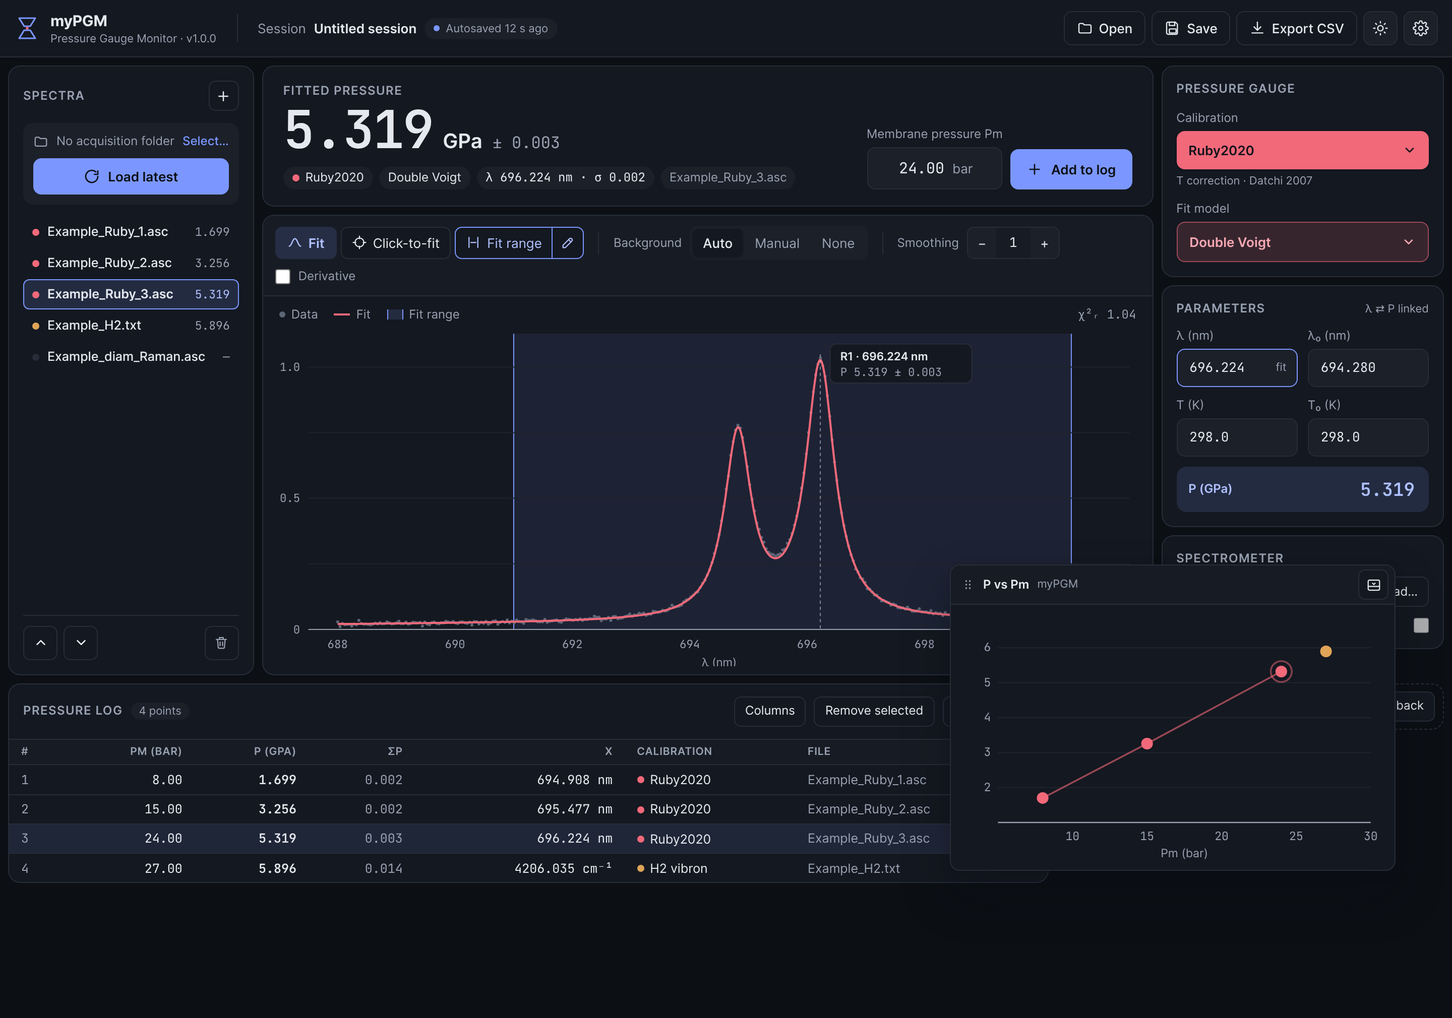
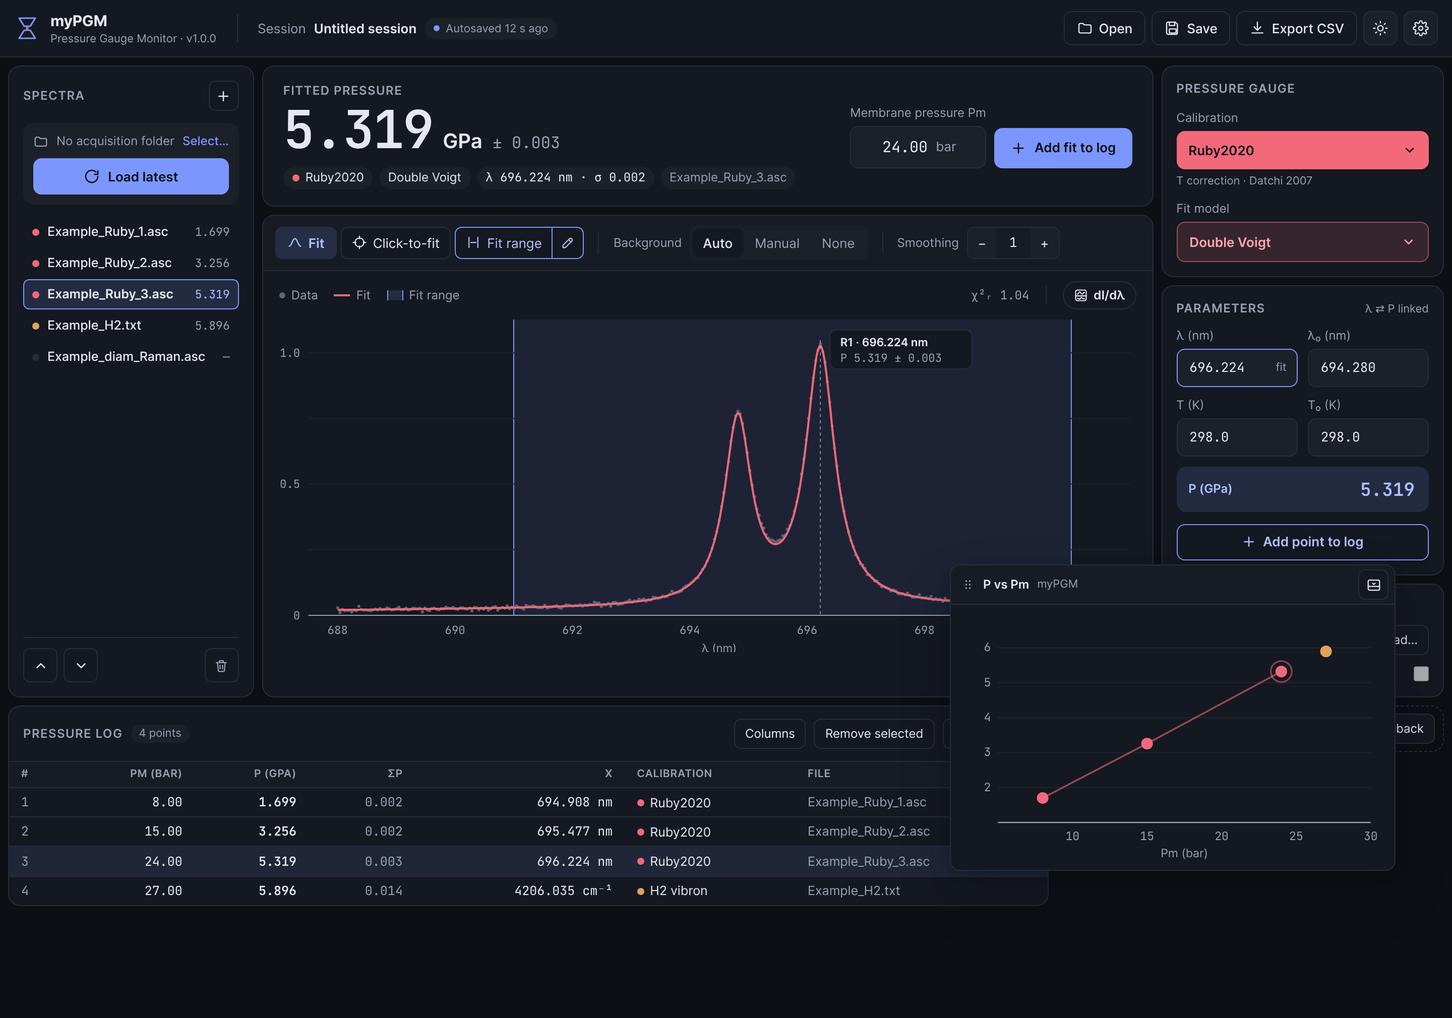
Design spec: centered Pm, manual point with Pm prompt, dI/dλ toggle
- Center the Pm field and 'Add fit to log' button in the fitted pressure card.
- Restore the manual point: 'Add point to log' in the Parameters card opens
  a Pm prompt (no extra Pm field in the inspector).
- Move the derivative toggle to the plot legend row as a dI/dλ pill so the
  fit toolbar fits on one line; derivative pane shown under the spectrum.
- New captures: add point dialog, derivative pane; others re-rendered.

Claude-Session: https://claude.ai/code/session_01D8ST4rG4FQjGSQ4HCeBbRy

diff --git a/docs/design/mockup_source.html b/docs/design/mockup_source.html
@@ -112,7 +112,7 @@ body{margin:0}
   <!-- Center: readout + spectrum -->
   <main style="flex: 999 1 560px; min-width: 0; display: flex; flex-direction: column; gap: 8px">
 
-    <section aria-label="Fitted pressure" style="display: flex; flex-wrap: wrap; align-items: flex-end; gap: 16px 28px; background: var(--sf); border: 1px solid var(--bd); border-radius: 12px; box-shadow: var(--sh); padding: 16px 20px">
+    <section aria-label="Fitted pressure" style="display: flex; flex-wrap: wrap; align-items: center; gap: 16px 28px; background: var(--sf); border: 1px solid var(--bd); border-radius: 12px; box-shadow: var(--sh); padding: 16px 20px">
       <div style="display: flex; flex-direction: column; gap: 4px; flex: 1 1 320px">
         <span style="font-size: 12px; font-weight: 600; letter-spacing: 0.06em; text-transform: uppercase; color: var(--mu)">Fitted pressure</span>
         <div style="display: flex; align-items: baseline; gap: 10px; flex-wrap: wrap">
@@ -136,7 +136,7 @@ body{margin:0}
           </div>
         </div>
         <button type="submit" style="display: inline-flex; align-items: center; gap: 8px; height: 40px; padding: 0 16px; border-radius: 8px; border: none; background: var(--ac); color: var(--onac); font: inherit; font-weight: 600; cursor: pointer">
-          <svg width="16" height="16" viewBox="0 0 24 24" aria-hidden="true" fill="none" stroke="currentColor" stroke-width="2" stroke-linecap="round"><path d="M12 5v14M5 12h14"></path></svg>Add to log</button>
+          <svg width="16" height="16" viewBox="0 0 24 24" aria-hidden="true" fill="none" stroke="currentColor" stroke-width="2" stroke-linecap="round"><path d="M12 5v14M5 12h14"></path></svg>Add fit to log</button>
       </form>
     </section>
 
@@ -172,8 +172,6 @@ body{margin:0}
             <button type="button" aria-label="More smoothing" style="width: 28px; height: 30px; border: none; background: var(--sf2); color: var(--tx); font: inherit; cursor: pointer">+</button>
           </div>
         </div>
-        <label style="display: inline-flex; align-items: center; gap: 8px; font-size: 12px; color: var(--mu); cursor: pointer">
-          <input type="checkbox" style="width: 15px; height: 15px; accent-color: var(--ac); margin: 0">Derivative</label>
       </div>
 
       <div style="display: flex; flex-wrap: wrap; align-items: center; gap: 16px; padding: 10px 16px 0; font-size: 12px; color: var(--mu)">
@@ -181,6 +179,9 @@ body{margin:0}
         <span style="display: inline-flex; align-items: center; gap: 6px"><span style="width: 16px; height: 2px; background: var(--ru)"></span>Fit</span>
         <span style="display: inline-flex; align-items: center; gap: 6px"><span style="width: 14px; height: 10px; background: var(--acs); border-left: 1px solid var(--ac); border-right: 1px solid var(--ac)"></span>Fit range</span>
         <span style="margin-left: auto; font-family: 'JetBrains Mono', monospace">χ²ᵣ 1.04</span>
+        <span style="width: 1px; height: 18px; background: var(--bd)"></span>
+        <button type="button" aria-pressed="{{derivOn}}" onClick="{{toggleDeriv}}" title="Show the derivative dI/dλ under the spectrum" style="display: inline-flex; align-items: center; gap: 6px; height: 28px; padding: 0 10px; border-radius: 999px; border: 1px solid {{derivBorder}}; background: {{derivBg}}; color: {{derivColor}}; font: inherit; font-size: 12px; font-weight: 600; cursor: pointer">
+          <svg width="14" height="14" viewBox="0 0 24 24" aria-hidden="true" fill="none" stroke="currentColor" stroke-width="1.8" stroke-linecap="round" stroke-linejoin="round"><rect x="3" y="3" width="18" height="18" rx="3"></rect><path d="M3 13h18"></path><path d="M6 10c2 0 2.5-4 4-4s2 4 4 4 2-3 4-3"></path><path d="M6 17c1.5 0 2 1.5 3.5 1.5S11 16 12.5 16s2 2 5.5 2"></path></svg>dI/dλ</button>
       </div>
       <div style="padding: 4px 12px 8px 4px; flex: 1 1 auto">
         <svg viewBox="-40 -6 850 330" role="img" aria-label="Ruby fluorescence spectrum with double Voigt fit, R1 at 696.224 nm" style="width: 100%; height: auto; display: block">
@@ -219,6 +220,21 @@ body{margin:0}
           </g>
         </svg>
       </div>
+      <sc-if value="{{derivOn}}" hint-placeholder-val="{{ false }}">
+      <div style="border-top: 1px dashed var(--bd); padding: 6px 12px 8px 4px">
+        <svg viewBox="-40 -4 850 150" role="img" aria-label="Derivative of the spectrum, dI/dλ" style="width: 100%; height: auto; display: block">
+          <line x1="0" y1="62" x2="800" y2="62" style="stroke: var(--grid)" stroke-width="1"></line>
+          <line x1="0" y1="124" x2="800" y2="124" style="stroke: var(--mu)" stroke-width="1"></line>
+          <line x1="498.5" y1="0" x2="498.5" y2="124" style="stroke: var(--tx)" stroke-width="1" stroke-dasharray="3 3" opacity="0.5"></line>
+          <g style="fill: var(--mu)" font-size="11" font-family="JetBrains Mono, monospace" text-anchor="end"><text x="-8" y="66">0</text></g>
+          <text x="-8" y="14" text-anchor="end" font-size="11" style="fill: var(--mu)">dI/dλ</text>
+          <g style="fill: var(--mu)" font-size="11" font-family="JetBrains Mono, monospace" text-anchor="middle">
+            <text x="28.6" y="141">688</text><text x="142.9" y="141">690</text><text x="257.1" y="141">692</text><text x="371.4" y="141">694</text><text x="485.7" y="141">696</text><text x="600" y="141">698</text><text x="714.3" y="141">700</text>
+          </g>
+          <path d="M28.6,64.1h0 M30.9,63.6h0 M33.2,61.5h0 M35.4,62.0h0 M37.7,62.3h0 M40.0,62.9h0 M42.3,61.9h0 M44.6,60.2h0 M46.9,59.1h0 M49.2,61.2h0 M51.5,64.1h0 M53.8,63.4h0 M56.1,62.6h0 M58.4,62.4h0 M60.7,61.5h0 M63.0,60.8h0 M65.3,61.3h0 M67.5,61.5h0 M69.8,62.0h0 M72.1,62.0h0 M74.4,61.0h0 M76.7,61.7h0 M79.0,63.3h0 M81.3,62.6h0 M83.6,61.0h0 M85.9,60.6h0 M88.2,62.4h0 M90.5,63.2h0 M92.8,62.0h0 M95.1,62.4h0 M97.4,62.4h0 M99.6,60.9h0 M101.9,61.1h0 M104.2,62.2h0 M106.5,62.9h0 M108.8,63.7h0 M111.1,62.1h0 M113.4,61.4h0 M115.7,62.7h0 M118.0,61.2h0 M120.3,60.4h0 M122.6,62.2h0 M124.9,63.0h0 M127.2,61.8h0 M129.4,60.8h0 M131.7,60.5h0 M134.0,61.3h0 M136.3,62.4h0 M138.6,62.2h0 M140.9,62.7h0 M143.2,63.1h0 M145.5,61.6h0 M147.8,61.0h0 M150.1,62.4h0 M152.4,62.9h0 M154.7,62.5h0 M157.0,62.7h0 M159.3,61.3h0 M161.5,60.5h0 M163.8,62.7h0 M166.1,62.5h0 M168.4,61.5h0 M170.7,61.6h0 M173.0,62.8h0 M175.3,62.4h0 M177.6,60.1h0 M179.9,60.7h0 M182.2,63.5h0 M184.5,63.0h0 M186.8,60.8h0 M189.1,61.0h0 M191.4,61.2h0 M193.6,62.3h0 M195.9,62.7h0 M198.2,61.8h0 M200.5,61.0h0 M202.8,61.5h0 M205.1,63.1h0 M207.4,62.8h0 M209.7,60.4h0 M212.0,60.0h0 M214.3,61.6h0 M216.6,62.0h0 M218.9,62.6h0 M221.2,63.5h0 M223.4,63.1h0 M225.7,61.7h0 M228.0,60.7h0 M230.3,62.2h0 M232.6,62.9h0 M234.9,61.4h0 M237.2,60.8h0 M239.5,61.4h0 M241.8,63.1h0 M244.1,63.3h0 M246.4,60.8h0 M248.7,59.4h0 M251.0,60.7h0 M253.3,62.4h0 M255.5,62.7h0 M257.8,62.0h0 M260.1,61.6h0 M262.4,61.6h0 M264.7,62.1h0 M267.0,62.1h0 M269.3,61.4h0 M271.6,61.1h0 M273.9,60.7h0 M276.2,59.9h0 M278.5,60.7h0 M280.8,63.0h0 M283.1,64.7h0 M285.3,63.5h0 M287.6,61.1h0 M289.9,61.1h0 M292.2,62.1h0 M294.5,60.7h0 M296.8,60.0h0 M299.1,62.8h0 M301.4,63.3h0 M303.7,61.5h0 M306.0,60.3h0 M308.3,59.7h0 M310.6,59.9h0 M312.9,61.7h0 M315.2,62.2h0 M317.4,61.2h0 M319.7,60.4h0 M322.0,60.7h0 M324.3,61.8h0 M326.6,62.9h0 M328.9,62.5h0 M331.2,60.8h0 M333.5,59.5h0 M335.8,60.0h0 M338.1,61.8h0 M340.4,61.7h0 M342.7,60.6h0 M345.0,60.8h0 M347.3,60.9h0 M349.5,58.9h0 M351.8,57.8h0 M354.1,60.2h0 M356.4,62.0h0 M358.7,61.1h0 M361.0,59.5h0 M363.3,57.4h0 M365.6,56.8h0 M367.9,57.9h0 M370.2,58.0h0 M372.5,57.3h0 M374.8,57.0h0 M377.1,56.9h0 M379.3,55.2h0 M381.6,52.9h0 M383.9,52.3h0 M386.2,51.2h0 M388.5,49.0h0 M390.8,46.2h0 M393.1,42.9h0 M395.4,40.6h0 M397.7,37.4h0 M400.0,32.2h0 M402.3,27.5h0 M404.6,24.3h0 M406.9,22.9h0 M409.2,21.3h0 M411.4,23.0h0 M413.7,31.3h0 M416.0,43.6h0 M418.3,59.5h0 M420.6,76.2h0 M422.9,89.6h0 M425.2,97.1h0 M427.5,100.5h0 M429.8,99.9h0 M432.1,95.4h0 M434.4,90.8h0 M436.7,85.3h0 M439.0,80.7h0 M441.3,78.0h0 M443.5,75.9h0 M445.8,73.3h0 M448.1,69.0h0 M450.4,65.7h0 M452.7,64.2h0 M455.0,62.0h0 M457.3,59.1h0 M459.6,56.8h0 M461.9,55.6h0 M464.2,53.5h0 M466.5,51.0h0 M468.8,48.6h0 M471.1,44.5h0 M473.3,39.8h0 M475.6,34.2h0 M477.9,28.6h0 M480.2,24.3h0 M482.5,19.2h0 M484.8,13.9h0 M487.1,11.8h0 M489.4,12.9h0 M491.7,17.9h0 M494.0,28.6h0 M496.3,43.8h0 M498.6,63.4h0 M500.9,82.7h0 M503.2,98.1h0 M505.4,109.2h0 M507.7,115.1h0 M510.0,116.0h0 M512.3,112.0h0 M514.6,106.9h0 M516.9,101.8h0 M519.2,96.2h0 M521.5,91.5h0 M523.8,87.7h0 M526.1,84.3h0 M528.4,81.2h0 M530.7,78.9h0 M533.0,75.9h0 M535.2,73.0h0 M537.5,70.8h0 M539.8,70.0h0 M542.1,71.6h0 M544.4,70.1h0 M546.7,67.8h0 M549.0,67.7h0 M551.3,66.7h0 M553.6,66.6h0 M555.9,67.2h0 M558.2,65.6h0 M560.5,64.1h0 M562.8,64.5h0 M565.1,65.0h0 M567.3,63.9h0 M569.6,63.4h0 M571.9,65.0h0 M574.2,64.9h0 M576.5,63.4h0 M578.8,62.8h0 M581.1,62.1h0 M583.4,63.2h0 M585.7,65.1h0 M588.0,64.2h0 M590.3,62.0h0 M592.6,60.9h0 M594.9,62.7h0 M597.2,64.1h0 M599.4,63.0h0 M601.7,62.3h0 M604.0,61.8h0 M606.3,62.9h0 M608.6,63.6h0 M610.9,62.7h0 M613.2,62.9h0 M615.5,63.1h0 M617.8,61.9h0 M620.1,62.0h0 M622.4,63.5h0 M624.7,63.6h0 M627.0,62.7h0 M629.2,61.2h0 M631.5,60.8h0 M633.8,61.6h0 M636.1,62.1h0 M638.4,62.6h0 M640.7,63.0h0 M643.0,62.4h0 M645.3,62.2h0 M647.6,62.6h0 M649.9,62.0h0 M652.2,61.5h0 M654.5,62.6h0 M656.8,63.1h0 M659.1,61.7h0 M661.3,60.8h0 M663.6,62.6h0 M665.9,63.4h0 M668.2,62.2h0 M670.5,61.5h0 M672.8,62.7h0 M675.1,61.9h0 M677.4,60.3h0 M679.7,61.4h0 M682.0,61.2h0 M684.3,61.1h0 M686.6,62.5h0 M688.9,62.5h0 M691.2,62.4h0 M693.4,61.4h0 M695.7,59.8h0 M698.0,61.1h0 M700.3,61.7h0 M702.6,61.8h0 M704.9,62.6h0 M707.2,63.4h0 M709.5,64.7h0 M711.8,63.2h0 M714.1,61.5h0 M716.4,62.8h0 M718.7,63.4h0 M721.0,62.0h0 M723.2,62.4h0 M725.5,63.7h0 M727.8,62.4h0 M730.1,60.8h0 M732.4,61.5h0 M734.7,61.6h0 M737.0,61.3h0 M739.3,63.1h0 M741.6,64.5h0 M743.9,63.4h0 M746.2,61.2h0 M748.5,60.3h0 M750.8,61.3h0 M753.1,62.3h0 M755.3,62.7h0 M757.6,62.4h0 M759.9,62.4h0 M762.2,62.7h0 M764.5,63.1h0 M766.8,62.9h0 M769.1,61.7h0 M771.4,61.6h0 M773.7,61.6h0 M776.0,60.6h0 M778.3,60.2h0 M780.6,59.5h0 M782.9,60.3h0" fill="none" style="stroke: var(--dot)" stroke-width="3" stroke-linecap="round"></path>
+        </svg>
+      </div>
+      </sc-if>
     </section>
   </main>
 
@@ -266,6 +282,10 @@ body{margin:0}
       <div style="display: flex; align-items: center; justify-content: space-between; gap: 10px; padding: 10px 12px; border-radius: 10px; background: var(--acs)">
         <label for="p-out" style="font-size: 12px; font-weight: 600; color: var(--act)">P (GPa)</label>
         <input id="p-out" type="text" inputmode="decimal" value="5.319" style="width: 90px; border: none; outline: none; background: transparent; color: var(--act); font-family: 'JetBrains Mono', monospace; font-size: 18px; font-weight: 600; text-align: right">
+      </div>
+      <div style="display: flex; padding-top: 2px">
+        <button type="button" onClick="{{openPmDialog}}" aria-haspopup="dialog" title="Add a point to the log from these values, without a spectrum or fit" style="flex: 1 1 auto; justify-content: center; display: inline-flex; align-items: center; gap: 6px; height: 36px; padding: 0 12px; border-radius: 8px; border: 1px solid var(--ac); background: var(--sf); color: var(--act); font: inherit; font-weight: 600; cursor: pointer; white-space: nowrap">
+          <svg width="15" height="15" viewBox="0 0 24 24" aria-hidden="true" fill="none" stroke="currentColor" stroke-width="2" stroke-linecap="round"><path d="M12 5v14M5 12h14"></path></svg>Add point to log</button>
       </div>
     </section>
 
@@ -363,6 +383,29 @@ body{margin:0}
   </sc-if>
 </div>
 
+<!-- Pm prompt for a manual point -->
+<sc-if value="{{pmDialogOpen}}" hint-placeholder-val="{{ false }}">
+  <div style="position: absolute; inset: 0; z-index: 30; background: rgba(10,14,22,0.35); display: flex; align-items: center; justify-content: center; padding: 16px">
+    <form role="dialog" aria-modal="true" aria-labelledby="pm-dlg-title" style="width: min(360px, 100%); background: var(--sf); border: 1px solid var(--bd); border-radius: 12px; box-shadow: 0 24px 48px rgba(10,14,22,0.3); padding: 18px; display: flex; flex-direction: column; gap: 14px">
+      <div style="display: flex; flex-direction: column; gap: 4px">
+        <h2 id="pm-dlg-title" style="margin: 0; font-size: 15px; font-weight: 600">Add point to log</h2>
+        <p style="margin: 0; font-size: 12px; color: var(--mu)">Ruby2020 · λ 696.224 nm · T 298.0 K → <span style="font-family: 'JetBrains Mono', monospace; color: var(--tx); font-weight: 600">P 5.319 GPa</span></p>
+      </div>
+      <div style="display: flex; flex-direction: column; gap: 4px">
+        <label for="pm-dlg" style="font-size: 12px; color: var(--mu)">Membrane pressure Pm</label>
+        <div style="display: flex; align-items: center; height: 40px; border: 2px solid var(--ac); border-radius: 8px; background: var(--sf2); padding: 0 10px; gap: 6px">
+          <input id="pm-dlg" type="text" inputmode="decimal" value="24.00" style="flex: 1 1 auto; min-width: 0; border: none; outline: none; background: transparent; color: var(--tx); font-family: 'JetBrains Mono', monospace; font-size: 15px">
+          <span style="color: var(--mu)">bar</span>
+        </div>
+      </div>
+      <div style="display: flex; justify-content: flex-end; gap: 8px">
+        <button type="button" onClick="{{closePmDialog}}" style="height: 36px; padding: 0 14px; border-radius: 8px; border: 1px solid var(--bd); background: var(--sf); color: var(--tx); font: inherit; font-weight: 500; cursor: pointer">Cancel</button>
+        <button type="button" onClick="{{closePmDialog}}" style="height: 36px; padding: 0 14px; border-radius: 8px; border: none; background: var(--ac); color: var(--onac); font: inherit; font-weight: 600; cursor: pointer">Add to log</button>
+      </div>
+    </form>
+  </div>
+</sc-if>
+
 <!-- Floating (undocked) windows -->
 <sc-if value="{{tableFloating}}" hint-placeholder-val="{{ false }}">
   <section role="dialog" aria-label="Pressure log window" style="position: absolute; left: 300px; top: 520px; width: min(660px, calc(100% - 40px)); z-index: 5; display: flex; flex-direction: column; background: var(--sf); border: 1px solid var(--bd); border-radius: 10px; box-shadow: 0 24px 48px rgba(10,14,22,0.28), 0 4px 12px rgba(10,14,22,0.12); overflow: hidden">
@@ -433,7 +476,7 @@ body{margin:0}
 
 </div>
 </x-dc>
-<script type="text/x-dc" data-dc-script data-props='{"dark":{"editor":"boolean","default":false},"tableUndocked":{"editor":"boolean","default":false},"fitRangeEditing":{"editor":"boolean","default":false},"plotUndocked":{"editor":"boolean","default":false},"accent":{"editor":"color","default":"#2450D6","options":["#2450D6","#0F7B6C","#7A4BD1","#C2410C"]},"$preview":{"width":1440,"height":1010}}'>
+<script type="text/x-dc" data-dc-script data-props='{"dark":{"editor":"boolean","default":false},"tableUndocked":{"editor":"boolean","default":false},"fitRangeEditing":{"editor":"boolean","default":false},"pmDialog":{"editor":"boolean","default":false},"derivative":{"editor":"boolean","default":false},"plotUndocked":{"editor":"boolean","default":false},"accent":{"editor":"color","default":"#2450D6","options":["#2450D6","#0F7B6C","#7A4BD1","#C2410C"]},"$preview":{"width":1440,"height":1010}}'>
 class Component extends DCLogic {
   renderVals() {
     const st = this.state || {};
@@ -455,6 +498,7 @@ class Component extends DCLogic {
     light.acs = rgba(light.ac, 0.09); light.sel = rgba(light.ac, 0.07);
     night.acs = rgba(night.ac, 0.15); night.sel = rgba(night.ac, 0.11);
     const t = dark ? night : light;
+    const derivOn = st.deriv != null ? st.deriv : !!this.props.derivative;
     const rangeOn = st.rangeOn != null ? st.rangeOn : true;
     const rangeEdit = rangeOn && (st.rangeEdit != null ? st.rangeEdit : !!this.props.fitRangeEditing);
     const calName = st.calib || 'Ruby2020';
@@ -496,6 +540,14 @@ class Component extends DCLogic {
       edgeWidth: rangeEdit ? 2 : 1,
       toggleRange: () => this.setState({ rangeOn: !rangeOn, rangeEdit: false }),
       toggleEdit: () => this.setState({ rangeEdit: !rangeEdit }),
+      pmDialogOpen: st.pmDialog != null ? st.pmDialog : !!this.props.pmDialog,
+      openPmDialog: () => this.setState({ pmDialog: true }),
+      closePmDialog: () => this.setState({ pmDialog: false }),
+      derivOn: derivOn,
+      derivBg: derivOn ? t.acs : t.sf,
+      derivBorder: derivOn ? t.ac : t.bd,
+      derivColor: derivOn ? t.act : t.tx,
+      toggleDeriv: () => this.setState({ deriv: !derivOn }),
       settingsOpen: !!st.settingsOpen,
       settingsBg: st.settingsOpen ? t.acs : t.sf2,
       settingsBorder: st.settingsOpen ? t.ac : t.bd,

diff --git a/docs/design/DESIGN.md b/docs/design/DESIGN.md
@@ -7,6 +7,8 @@ Reference for the redesign of the myPGM main window. It goes with:
 | `mockup_light.png` | Main window, light theme, everything docked |
 | `mockup_dark_plot_undocked.png` | Dark theme, P vs Pm plot undocked into its own window |
 | `mockup_light_fit_range_editing.png` | Fit range on and in edit mode (pencil part of the split button active, draggable edges) |
+| `mockup_light_add_point_dialog.png` | Pm prompt opened by "Add point to log" (manual point, no fit) |
+| `mockup_light_derivative.png` | Derivative pane shown under the spectrum (dI/dλ toggle on) |
 | `mockup_light_settings_menu.png` | Settings menu open (gear button, top right) |
 | `mockup_light_table_undocked_samarium.png` | Pressure log undocked; Sm calibration selected (selector colors follow the calibration) |
 | `mockup_source.html` | HTML source of the mockup: exact sizes, paddings and colors when a PNG is ambiguous. Holes like `{{t.bg}}` are filled from the palette in its `<script>` block. |
@@ -26,8 +28,8 @@ One main window instead of three. From top to bottom:
 2. **Workspace**: three columns in a horizontal splitter
    - **Spectra sidebar** (≈ 240 px): header "SPECTRA" + "+" add button; an acquisition-folder box (folder name or "No acquisition folder", "Select…" link, full-width primary **Load latest** button); the file list; at the bottom move up / move down / delete icon buttons.
    - **Center** (takes the extra width):
-     - **Fitted pressure card**: label "FITTED PRESSURE"; the value in very large mono (52 px, semibold) + "GPa" (20 px semibold) + "± σ" (16 px mono, muted); a row of pills: calibration (with its colored dot), fit model, "λ 696.224 nm · σ 0.002", file name. On the right: "Membrane pressure Pm" field (mono, "bar" suffix) and the primary **Add to log** button.
-     - **Spectrum card**: one toolbar row (Fit [accent-soft, primary] · Click-to-fit · Fit range split button [see below] | Background: segmented Auto / Manual / None | Smoothing − n + | Derivative checkbox), a small legend row (Data · Fit · Fit range, χ²ᵣ on the right), then the pyqtgraph plot. The fit range is a light accent band with accent edges; the fitted peak gets a dashed vertical marker and a small label "R1 · 696.224 nm / P 5.319 ± 0.003". The plot title text is gone (the pressure is in the card above).
+     - **Fitted pressure card**: label "FITTED PRESSURE"; the value in very large mono (52 px, semibold) + "GPa" (20 px semibold) + "± σ" (16 px mono, muted); a row of pills: calibration (with its colored dot), fit model, "λ 696.224 nm · σ 0.002", file name. On the right, vertically centered in the card: "Membrane pressure Pm" field (mono, "bar" suffix) and the primary **Add fit to log** button (today's `add_fitted_button`). When no spectrum is fitted the value shows "—" and the button is disabled.
+     - **Spectrum card**: one toolbar row (Fit [accent-soft, primary] · Click-to-fit · Fit range split button [see below] | Background: segmented Auto / Manual / None | Smoothing − n +), a small legend row (Data · Fit · Fit range, then on the right χ²ᵣ, a divider and a **dI/dλ** pill toggle), then the pyqtgraph plot. The derivative toggle lives in the legend row so the toolbar fits on one line and the option stays visible: a 28 px pill with a split-plot icon, neutral when off, accent border + accent-soft background when on (`mockup_light_derivative.png`). On, the derivative plot appears under the spectrum in the same card (dashed separator, ~1/3 of the spectrum height, same x axis, zero line, dashed marker at the fitted peak/edge): this is today's `Derivative_button` / `deriv_widget` in the plot splitter, restyled. The fit range is a light accent band with accent edges; the fitted peak gets a dashed vertical marker and a small label "R1 · 696.224 nm / P 5.319 ± 0.003". The plot title text is gone (the pressure is in the card above).
      - **Fit range split button** (`mockup_light_fit_range_editing.png`), two joined buttons sharing one border:
        - left part "Fit range" toggles the use of a fit range (today's `fit_range_enable_button`); on = accent border and accent text, off = neutral, and the band disappears from the plot;
        - right part, a pencil icon (32 × 32, tooltip "Edit fit range"), toggles editing (today's `fit_range_edit_button`, keep both attribute names); it is disabled while the fit range is off and turning the range off also ends editing;
@@ -35,6 +37,7 @@ One main window instead of three. From top to bottom:
    - **Inspector** (≈ 300 px), three cards:
      - "PRESSURE GAUGE": Calibration selector (solid calibration color, see §3), "T correction · Datchi 2007" caption, Fit model selector (tinted calibration color).
      - "PARAMETERS" ("λ ⇄ P linked" on the right): 2 × 2 grid λ, λ₀, T, T₀ (mono inputs; the fitted one has an accent border and a small "fit" suffix), then a highlighted P (GPa) row (accent-soft background, 18 px semibold mono).
+       Below it, a full-width secondary **Add point to log** button (accent border and text). It adds a point from the λ / T / P values alone, with no spectrum or fit (today's `PToolbox_toTable_button` → `add_current_PToolbox_to_table`). It opens a small modal (`mockup_light_add_point_dialog.png`): title "Add point to log", a summary line "<calibration> · λ … nm · T … K → P … GPa", a focused "Membrane pressure Pm" field prefilled with the last Pm (bar suffix), Cancel / **Add to log** (Enter confirms, Esc cancels). Same idea as today's `prompt_fit_pm`; there is no Pm field in the inspector.
      - "SPECTROMETER": file name or "No calibration file" + "Load…" button; "Use spectrometer calibration" checkbox.
 3. **Bottom dock area**: "PRESSURE LOG" (wide) and "P VS PM" side by side, each in a `QDockWidget`.
    - Each header has an undock button (arrow-out-of-box icon). Undocked, it becomes a floating window with a compact title bar (grip, title, "myPGM", dock-back button); its place in the main window shows a dashed placeholder "<Name> is open in a separate window [Dock back]" (with real `QDockWidget`s the native float/dock behavior is fine: the placeholder is optional).

diff --git a/docs/design/IMPLEMENTATION_PLAN.md b/docs/design/IMPLEMENTATION_PLAN.md
@@ -33,8 +33,8 @@ Work on the `antoine_dev` branch, one step at a time: each step is reviewed, tes
    - Save and restore dock layout and window geometry with `saveState()` / `restoreState()` in `QSettings`. Replace `_arrange_windows` accordingly.
    - The "P vs Pm" button that toggled the separate windows becomes unnecessary (docks can be closed/reopened from the Settings menu or a View submenu).
 4. **Center panel**
-   - Fitted pressure card (big value, σ, pills, Pm field + Add to log). It replaces the plot title and the "Add fit to table" / "Add to table" buttons (keep one code path).
-   - Fit toolbar: Fit / Click-to-fit / Fit range (+ edit); Background as an exclusive `QButtonGroup` of checkable buttons (Auto / Manual / None); Smoothing stepper; Derivative checkbox; legend row.
+   - Fitted pressure card (big value, σ, pills, Pm field + Add fit to log). It replaces the plot title and the "Add fit to table" button (`add_fitted_button`, same code path). The manual "Add to table" of the pressure toolbox stays as "Add point to log" in the Parameters card (`PToolbox_toTable_button`).
+   - Fit toolbar: Fit / Click-to-fit / Fit range (+ edit); Background as an exclusive `QButtonGroup` of checkable buttons (Auto / Manual / None); Smoothing stepper; legend row with the dI/dλ pill toggle on its right (drives the existing derivative splitter pane). The toolbar must fit on one line at 1280 px.
 5. **Density and colors**
    - File list: `QStyledItemDelegate` for one-line 30 px rows (dot, name, fitted P), tooltip with calibration and model.
    - Pressure log: 26 px rows, mono numbers, highlighted current row, header strip style.
